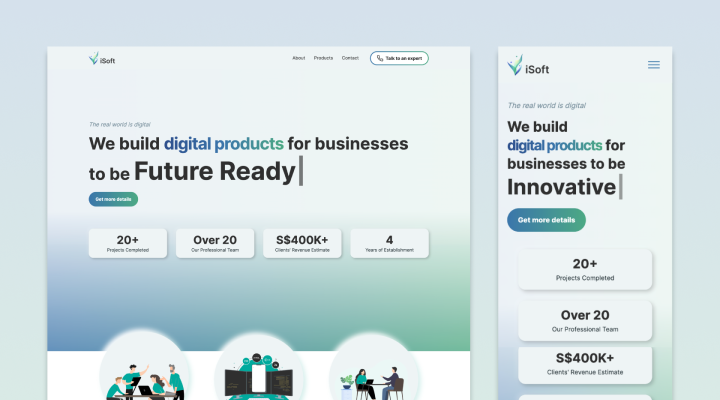
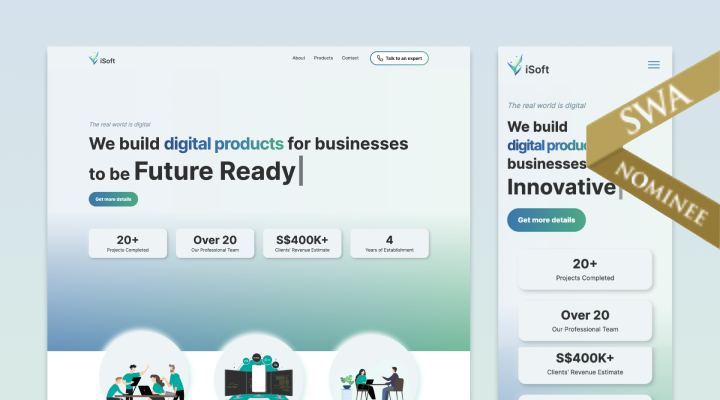
update ui and added swa nominee

Changed region(s): [[0.7944, 0.12, 1.0, 0.63]]

diff --git a/pages/index.js b/pages/index.js
@@ -5,7 +5,7 @@ import NextLink from 'next/link'
 import { AiTwotoneMail } from 'react-icons/ai'
 import { IoLogoGithub, IoLogoInstagram, IoLogoTwitter } from 'react-icons/io5'
 
-import { BioSection, BioYear } from '../components/bio'
+import { BioDesc, BioSection, BioYear } from '../components/bio'
 import { GridItem } from '../components/grid-item'
 import Layout from '../components/layouts/article'
 import Paragraph from '../components/paragraph'
@@ -18,6 +18,7 @@ const ProfileImage = chakra(Image, {
 const Home = () => (
   <Layout>
     <Container>
+      {/*
       <Box
         borderRadius="lg"
         mb={6}
@@ -29,13 +30,19 @@ const Home = () => (
         Hello, I&apos;m an UI/UX Engineer based in Singapore!
       </Box>
 
-      <Box display={{ md: 'flex' }}>
+      I'm passionate about web technology and focused on the
+      user experience. I aim to create web experiences that are
+      surprising, exciting and memorable on top of that.
+      */}
+
+      <Box display={{ md: 'flex' }} textAlign="center">
         <Box flexGrow={1}>
-          <Heading as="h2" variant="page-title" mb={2}>
-            Keng Hong
+          <Heading as="h2" variant="page-title" fontSize={54} mb={2}>
+            <span className="title-highlight">Keng</span> Hong
           </Heading>
           <p>Frontend Developer | UI/UX Designer </p>
         </Box>
+        {/*
         <Box flexShrink={0} mt={{ base: 4, md: 0 }} ml={{ md: 6 }} textAlign="center">
           <Box
             borderColor="whiteAlpha.800"
@@ -50,64 +57,112 @@ const Home = () => (
             <ProfileImage src="/images/profile-pic.jpg" alt="Profile image" borderRadius="full" width="100%" height="100%" />
           </Box>
         </Box>
+    */}
+      </Box>
+
+      <Box align="center" mt={4} mb={8}>
+        <NextLink href="/works" passHref scroll={false}>
+          <Button rightIcon={<ChevronRightIcon />} colorScheme="blue">
+            My portfolio
+          </Button>
+        </NextLink>
       </Box>
 
       <Section delay={0.1}>
-        <Heading as="h3" variant="section-title">
-          Work
-        </Heading>
-        <Paragraph>
-          Keng Hong is a full time UI/UX Engineer based in Singapore that specializing in creating interactive UI/UX and frontend
-          development. He loves designing as little design as possible and make it easy to use. He believes that every designer should
-          understand a bit of coding, and every developer should know what design is all about.
-        </Paragraph>
-
-        <Box align="center" my={4}>
-          <NextLink href="/works" passHref scroll={false}>
-            <Button rightIcon={<ChevronRightIcon />} colorScheme="teal">
-              My portfolio
-            </Button>
-          </NextLink>
+        <Box display="flex" gap="4">
+          <Box mt={0} width="50px" flexShrink={0}>
+            <Heading as="h3" variant="section-title" className="title-highlight" mt={0}>
+              Bio
+            </Heading>
+          </Box>
+          <Paragraph>
+            Keng Hong is a full time UI/UX Engineer based in Singapore that specializing in creating interactive UI/UX and frontend
+            development. He loves designing as little design as possible and make it easy to use. He believes that every designer should
+            understand a bit of coding, and every developer should know what design is all about.
+          </Paragraph>
         </Box>
       </Section>
 
+      
+      {/*
       <Section delay={0.2}>
-        <Heading as="h3" variant="section-title">
-          Bio
-        </Heading>
-        <BioSection>
-          <BioYear>2016</BioYear>
-          Web Developer (Internship) @ Appleseeds Creativity
-        </BioSection>
-        <BioSection>
-          <BioYear>2017</BioYear>
-          Completed Internet Technology Degree&apos;s Program in Asia Pacific University
-        </BioSection>
-        <BioSection>
-          <BioYear>2017 - 2021</BioYear>
-          Web Programmer @ Patroids
-        </BioSection>
-        <BioSection>
-          <BioYear>2021 to present</BioYear>
-          Software Engineer (UI/UX) @ Sheng Siong
-        </BioSection>
+        <Box display="flex" gap="4">
+          <Box mt={0} width="50px" flexShrink={0}>
+            <Heading as="h3" variant="section-title" className="title-highlight" mt={0}>
+              Bio
+            </Heading>
+          </Box>
+
+          <Box>
+            <BioSection>
+              <BioYear>2016</BioYear>
+              <BioDesc>Web Developer (Internship) @ Appleseeds Creativity</BioDesc>
+            </BioSection>
+            <BioSection>
+              <BioYear>2017</BioYear>
+              <BioDesc>Completed Internet Technology Degree&apos;s Program in Asia Pacific University</BioDesc>
+            </BioSection>
+            <BioSection>
+              <BioYear>2017 - 2021</BioYear>
+              <BioDesc>Web Programmer @ Patroids Creative Works</BioDesc>
+            </BioSection>
+            <BioSection>
+              <BioYear>2021 to present</BioYear>
+              <BioDesc>Software Engineer (UI/UX) @ Sheng Siong</BioDesc>
+            </BioSection>
+          </Box>
+        </Box>
+      </Section>
+  */}
+
+      {/*
+      <Section delay={0.3}>
+        <Box display="flex" gap="4">
+          <Box mt={0} width="50px" flexShrink={0}>
+            <Heading as="h3" variant="section-title" className="title-highlight" mt={0}>
+              I ♥
+            </Heading>
+          </Box>
+
+          <Box>
+            <Paragraph>Darts, Music, Stephen Chow's Movie, Dota 2, New Technology</Paragraph>
+          </Box>
+        </Box>
+      </Section>
+*/}
+
+{/*
+      <Section delay={0.3}>
+        <Box display="flex" gap={6}>
+          <Box>
+            <NextLink href="/works" passHref scroll={false}>
+              <Button rightIcon={<ChevronRightIcon />} colorScheme="blue">
+                My portfolio
+              </Button>
+            </NextLink>
+          </Box>
+          <Box>
+            <NextLink href="mailto:kenghongg@outlook.com" passHref scroll={false}>
+              <Button rightIcon={<ChevronRightIcon />} colorScheme="blue">
+                kenghongg@outlook.com
+              </Button>
+            </NextLink>
+          </Box>
+        </Box>
       </Section>
 
-      <Section delay={0.3}>
-        <Heading as="h3" variant="section-title">
-          I ♥
-        </Heading>
-        <Paragraph>Darts, Music, Stephen Chow's Movie, Dota 2, New Technology</Paragraph>
-      </Section>
+*/}
 
       <Section delay={0.3}>
-        <Heading as="h3" variant="section-title">
-          Get in touch
-        </Heading>
+        <Box width="130px">
+          <Heading as="h3" variant="section-title" className="title-highlight">
+            Get in touch
+          </Heading>
+        </Box>
 
         <Box align="left" my={4}>
           <NextLink href="mailto:kenghongg@outlook.com" passHref scroll={false}>
-            <Button rightIcon={<ChevronRightIcon />} colorScheme="teal">
+            <Button rightIcon={<ChevronRightIcon />} colorScheme="blue">
               kenghongg@outlook.com
             </Button>
           </NextLink>
@@ -116,14 +171,14 @@ const Home = () => (
         {/*<List>
           <ListItem>
             <Link href="https://github.com/kenghongg" target="_blank">
-              <Button variant="ghost" colorScheme="teal" leftIcon={<IoLogoGithub />}>
+              <Button variant="ghost" colorScheme="blue" leftIcon={<IoLogoGithub />}>
                 @kenghongg
               </Button>
             </Link>
           </ListItem>
           <ListItem>
             <Link href="mailto:kenghongg@outlook.com">
-              <Button variant="ghost" colorScheme="teal" leftIcon={<AiTwotoneMail />}>
+              <Button variant="ghost" colorScheme="blue" leftIcon={<AiTwotoneMail />}>
                 kenghongg@outlook.com
               </Button>
             </Link>

diff --git a/pages/works/isoftcompanywebsite.js b/pages/works/isoftcompanywebsite.js
@@ -1,5 +1,6 @@
-import { ExternalLinkIcon } from '@chakra-ui/icons'
+import { ChevronRightIcon, ExternalLinkIcon } from '@chakra-ui/icons'
 import { Badge, Box, Button, Container, Input, Link, List, ListItem, useClipboard } from '@chakra-ui/react'
+import NextLink from 'next/link'
 import { useState } from 'react'
 
 import Layout from '../../components/layouts/article'
@@ -20,12 +21,21 @@ const Work = () => {
         <BeginMeta>Website Interface Design</BeginMeta>
         <BeginMeta>Frontend Development</BeginMeta>
         <BeginMeta>Backend Development</BeginMeta>
+        <BeginMeta>SWA Nominee</BeginMeta>
 
         <P>Website of a tech company based in Singapore that builds digital products for businesses to be innovative and future ready.</P>
         <P>
           The Website is used for company introduction and portfolio showcase. It is designed from scratch, which consists of parallax
           effects and animations. Then, the design converted to codes by myself in both frontend client side as well as backend server side.
         </P>
+
+        <Box align="center" mt={4} mb={8}>
+          <a href="https://www.swa.sg/2022/sep/isoft-apps" target="_blank">
+            <Button rightIcon={<ExternalLinkIcon />} colorScheme="blue">
+              SWA Nominee
+            </Button>
+          </a>
+        </Box>
 
         <List ml={4} my={4}>
           <ListItem>

diff --git a/components/navbar.js b/components/navbar.js
@@ -63,7 +63,12 @@ const Navbar = props => {
           <LinkItem href="/works" path={path}>
             Works
           </LinkItem>
+          <LinkItem href="mailto:kenghongg@outlook.com" path={path}>
+            Contact
+          </LinkItem>
+
           {' /** <LinkItem href="/posts" path={path}>Posts</LinkItem> **/'}
+          {/*
           <LinkItem
             target="_blank"
             href="https://github.com/kenghongg/kenghong-homepage"
@@ -76,6 +81,8 @@ const Navbar = props => {
             <IoLogoGithub />
             Source
           </LinkItem>
+
+        */}
         </Stack>
 
         <Box flex={1} align="right">
@@ -99,12 +106,24 @@ const Navbar = props => {
                 {/*<NextLink href="/posts" passHref>
                   <MenuItem as={Link}>Posts</MenuItem>
                 </NextLink>*/}
+                
+                {/*
                 <MenuItem
                   as={Link}
                   href="https://github.com/kenghongg/kenghong-homepage"
                 >
                   View Source
                 </MenuItem>
+              */}
+
+              
+                <MenuItem
+                  as={Link}
+                  href="mailto:kenghongg@outlook.com"
+                >
+                  Contact
+                </MenuItem>
+              
               </MenuList>
             </Menu>
           </Box>

diff --git a/lib/theme.js b/lib/theme.js
@@ -5,6 +5,28 @@ const styles = {
   global: props => ({
     body: {
       bg: mode('#F3F4FA', '#202023')(props)
+    },
+    '.title-highlight::after': {
+      content: '""',
+      background: 'rgba(33, 150, 243, 0.3)',
+      position: 'absolute',
+      display: 'block',
+      width: '80%',
+      height: 2,
+      bottom: 1,
+      left: 0,
+      borderRadius: 24
+    },
+    '.title-highlight::before': {
+      content: '""',
+      background: 'rgba(33, 150, 243, 0.2)',
+      position: 'absolute',
+      display: 'block',
+      width: '50%',
+      height: 2,
+      bottom: 5,
+      left: 0,
+      borderRadius: 24
     }
   })
 }
@@ -12,14 +34,19 @@ const styles = {
 const components = {
   Heading: {
     variants: {
+      'page-title': {
+        position: 'relative',
+        display: 'inline-block'
+      },
       'section-title': {
-        textDecoration: 'underline',
+        // textDecoration: 'underline',
         fontSize: 20,
         textUnderlineOffset: 6,
         textDecorationColor: '#525252',
         textDecorationThickness: 4,
         marginTop: 3,
-        marginBottom: 4
+        marginBottom: 4,
+        position: 'relative'
       }
     }
   },
@@ -40,7 +67,7 @@ const colors = {
   kashmirBlue: '#55698e'
 }
 
-const colorScheme= {
+const colorScheme = {
   grassTeal: '#BDE6F7',
   kashmirBlue: '#55698e'
 }

diff --git a/components/layouts/main.js b/components/layouts/main.js
@@ -18,7 +18,7 @@ const Main = ({ children, router }) => {
     <Box as="main" pb={8}>
       <Head>
         <meta name="viewport" content="width=device-width, initial-scale=1" />
-        <meta name="description" content="Keng Hong's homepage" />
+        <meta name="description" content="Online Portfolio of Keng Hong, UIUX Engineer, born in Malaysia, based in Singapore" />
         <meta name="author" content="Keng Hong" />
         <link rel="apple-touch-icon" href="apple-touch-icon.png" />
         <link rel="shortcut icon" href="/favicon.ico" type="image/x-icon" />

diff --git a/components/bio.js b/components/bio.js
@@ -2,11 +2,11 @@ import { Box } from '@chakra-ui/react'
 import styled from '@emotion/styled'
 
 export const BioSection = styled(Box)`
-  padding-left: 3.4em;
-  text-indent: -3.4em;
+  padding-bottom: 1em;
 `
 
-export const BioYear = styled.span`
+export const BioYear = styled(Box)`
   font-weight: bold;
-  margin-right: 1em;
 `
+
+export const BioDesc = styled(Box)``

diff --git a/components/theme-toggle-button.js b/components/theme-toggle-button.js
@@ -17,7 +17,7 @@ const ThemeToggleButton = () => {
       >
         <IconButton
           aria-label="Toggle theme"
-          colorScheme={useColorModeValue('blue', 'orange')}
+          colorScheme={useColorModeValue('teal', 'orange')}
           icon={useColorModeValue(<MoonIcon />, <SunIcon />)}
           onClick={toggleColorMode}
         ></IconButton>

diff --git a/components/paragraph.js b/components/paragraph.js
@@ -2,8 +2,8 @@ import styled from '@emotion/styled'
 
 const Paragraph = styled.p`
   text-align: justify;
-  text-indent: 1em;
-  padding-top: 8px;
+  // text-indent: 1em;
+  // padding-top: 8px;
 `
 
 export default Paragraph
